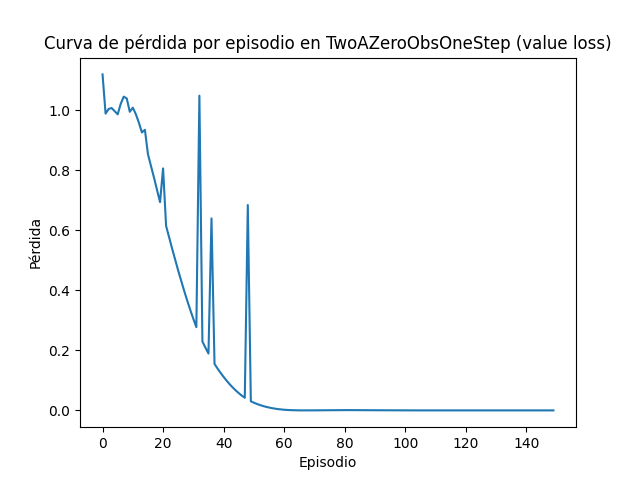
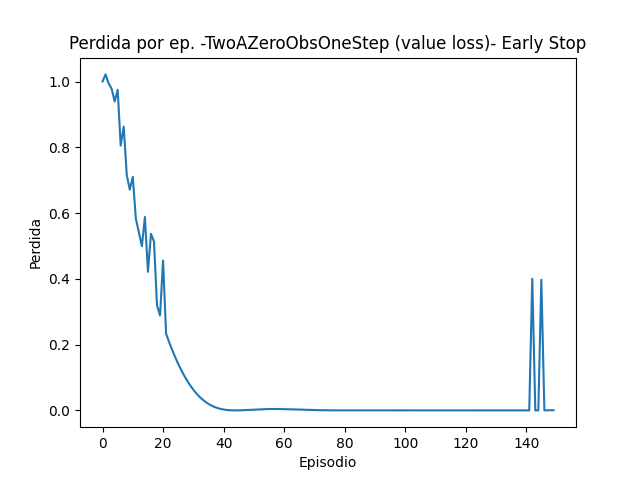
Added early stop functionality

diff --git a/code/main.py b/code/main.py
@@ -6,14 +6,21 @@ import torch.nn.functional as F
 import gymnasium as gym
 import utils
 from reinforce import build_mlp, train_policy
+from utils import CONVERGENCE
 
-def train_and_test_env(environment_name: str, episodes: int, obs: np.ndarray):
+def train_and_test_env(environment_name: str, 
+                       episodes: int, 
+                       obs: np.ndarray, 
+                       batch_size: int, 
+                       early_stop: bool = False):
     """
     Entrena una política en el entorno especificado y luego prueba la política aprendida.
     Args:
         environment_name (str): Nombre del entorno a entrenar.
-        episodes (int): Número de episodios para entrenar.
+        episodes (int): Número de episodios para entrenar.S
         obs (np.ndarray): Observación inicial para probar la política aprendida.
+        batch_size (int): Tamaño del batch (numero de trayectorias antes de actualizar la política).
+        early_stop (bool): Si True, usa criterio de convergencia para detener el entrenamiento.
     """
     # --------------------- ENTORNOS ---------------------
     envs = {
@@ -41,7 +48,12 @@ def train_and_test_env(environment_name: str, episodes: int, obs: np.ndarray):
     policy_optimizer = optim.Adam(policy_net.parameters(), lr=lr_policy)
     value_opt = optim.Adam(value_net.parameters(), lr=lr_value)
 
-    train_losses, value_losses, rewards_per_episode = train_policy(env, policy_net, value_net, policy_optimizer, value_opt, episodes=episodes, gamma=gamma, batch_size=5)
+    if early_stop:
+        early_stop_cfg = {**CONVERGENCE[environment_name]}
+    else:
+        early_stop_cfg = None
+
+    train_losses, value_losses, rewards_per_episode = train_policy(env, policy_net, value_net, policy_optimizer, value_opt, episodes=episodes, gamma=gamma, batch_size=10, use_baseline=True, normalize_advantages=True, early_stop_cfg=early_stop_cfg)
 
     print("\nEntrenamiento completado. Probando la política aprendida...\n")
 
@@ -51,7 +63,7 @@ def train_and_test_env(environment_name: str, episodes: int, obs: np.ndarray):
     probs = F.softmax(logits, dim=-1).detach().numpy().flatten()  # Softmax para convertir logits en probabilidades
 
     # --------------------- GRÁFICOS ---------------------
-    utils.plot_action_probs(probs, environment_name)
+    #utils.plot_action_probs(probs, environment_name)
     utils.plot_loss_curve(train_losses, environment_name)
     utils.plot_loss_curve(value_losses, environment_name + " (value loss)")
     utils.plot_rewards(rewards_per_episode, environment_name)
@@ -167,22 +179,22 @@ def compare_and_plot(env_name, episodes=500, batch_size=10, seeds=(0,1,2,3,4)):
 
 if __name__ == "__main__":
     # Entrenar y probar en TwoAZeroObsOneStepEnv
-    # train_and_test_env("TwoAZeroObsOneStep", episodes=150, obs=np.array([0.0]))
+    # train_and_test_env("TwoAZeroObsOneStep", episodes=150, obs=np.array([0.0]), batch_size=10, early_stop=False)
 
     # Entrenar y probar en TwoARandomObsOneStepEnv
-    # train_and_test_env("TwoARandomObsOneStepEnv", episodes=150, obs=np.array([1.0, 0.0]))
+    # train_and_test_env("TwoARandomObsOneStepEnv", episodes=150, obs=np.array([1.0, 0.0]), batch_size=10, early_stop=True)
 
     # Entrenar y probar en LineWorldEasyEnv
-    # train_and_test_env("LineWorldEasyEnv", episodes=150, obs=np.array([1.0, 0.0, 0.0, 0.0, 0.0, 0.0]))
+    # train_and_test_env("LineWorldEasyEnv", episodes=150, obs=np.array([1.0, 0.0, 0.0, 0.0, 0.0, 0.0]), batch_size=10, early_stop=True)
 
     # Entrenar y probar en LineWorldMirrorEnv
-    # train_and_test_env("LineWorldMirrorEnv", episodes=150, obs=np.array([1.0, 0.0, 0.0, 0.0]))
+    # train_and_test_env("LineWorldMirrorEnv", episodes=150, obs=np.array([1.0, 0.0, 0.0, 0.0]), batch_size=10, early_stop=True)
 
     # Entrenar y probar en CartPole-v1
-    # train_and_test_env("CartPole-v1", episodes=500, obs=np.array([0.0, 0.0, 0.0, 0.0]))
+    # train_and_test_env("CartPole-v1", episodes=500, obs=np.array([0.0, 0.0, 0.0, 0.0]), batch_size=10, early_stop=True)
 
     # Entrenar y probar en Acrobot-v1
-    train_and_test_env("Acrobot-v1", episodes=500, obs=np.array([0.0, 0.0, 0.0, 0.0, 0.0, 0.0]))
+    # train_and_test_env("Acrobot-v1", episodes=500, obs=np.array([0.0, 0.0, 0.0, 0.0, 0.0, 0.0]), batch_size=10, early_stop=True )
 
     #compare_and_plot("CartPole-v1", episodes=500, batch_size=10, seeds=(0,1,2,3,4))
     # compare_and_plot("Acrobot-v1", episodes=500, batch_size=10, seeds=[0, 1, 2])

diff --git a/code/utils.py b/code/utils.py
@@ -11,7 +11,7 @@ def plot_loss_curve(train_losses, environment_name: str):
     plt.plot(train_losses)
     plt.xlabel("Episodio")
     plt.ylabel("Perdida")
-    plt.title(f"Curva de perdida por episodio en {environment_name}")
+    plt.title(f"Perdida por ep. -{environment_name}- Early Stop")
     plt.savefig(f"plots/losses/loss_curve_{environment_name}.png")
     plt.close()
 
@@ -37,7 +37,7 @@ def plot_rewards(rewards_per_episode, environment_name: str, avg_random: float =
         plt.axhline(y=avg_random, color="red", linestyle="--", label="Agente aleatorio")
     plt.xlabel("Episodio")
     plt.ylabel("Recompensa")
-    plt.title(f"Recompensa promedio por episodio en {environment_name}")
+    plt.title(f"Recompensa promedio por episodio en {environment_name} - Early Stop")
     plt.legend()
     plt.savefig(f"plots/rewards/rewards_{environment_name}.png")
     plt.close()
@@ -49,7 +49,7 @@ def moving_average(x, w):
     Para cada punto i, reemplaza x[i] por el promedio de los w puntos 
     anteriores (incluyendo el valor de x[i])
     """
-    
+
     w = min(w, len(x))
     return np.convolve(x, np.ones(w)/w, mode="valid") if len(x) else np.array([])
 
@@ -122,7 +122,68 @@ def plot_two_curves(curve_A, curve_B, title, label_A, label_B, x_label, y_label,
     plt.savefig(out_path)
     plt.close()
 
+# ------------------ UTILS PARA CONVERGENCIA ------------------
+# Criterios de convergencia para cada uno de los entornos
+"""
+    - threshold: valor umbral de recompensa promedio 
+    - window: cantidad de episodios sobre los que promediar
+    - mode: criterio de comparacion. ejemplo: "ge" (greater or equal) 
 
+"""
+CONVERGENCE = {
+    # -------- GYM --------
+    "CartPole-v1": {
+        "env_name": "CartPole-v1", "metric": "avg_return", "threshold": 450.0, "window": 50, "mode": "ge"
+    },  
+    "Acrobot-v1":  {
+        "env_name": "Acrobot-v1", "metric": "avg_return", "threshold": -100.0, "window": 50, "mode": "ge"
+    },  
+
+    # -------- CUSTOM --------
+    # 1 paso; optimo = +1 siempre. Converge cuando el promedio se acerca a +1
+    "TwoAZeroObsOneStep": {
+        "env_name": "TwoAZeroObsOneStep", "metric": "avg_return", "threshold": 0.99, "window": 50, "mode": "ge"
+    },
+
+    # 1 paso; optimo = +1 si elige la accion correcta segun el estado
+    "TwoARandomObsOneStepEnv": {
+        "env_name": "TwoARandomObsOneStepEnv", "metric": "avg_return", "threshold": 0.99, "window": 50, "mode": "ge"
+    },
+
+    # Recompensa no descontada es siempre 1 si eventualmente llega, asi que NO sirve avg_return.
+    # Medimos eficiencia: pasos por episodio (menos pasos es mejor). Optimo = 5 pasos (llega al estado 5).
+    "LineWorldEasyEnv": {
+        "env_name": "LineWorldEasyEnv", "metric": "avg_steps",  "threshold": 5.5, "window": 50, "mode": "le"
+    },
+
+    # Recompensa = -1 por paso, retorno = -#pasos. Optimo = -3 (llega en 3 pasos)
+    # Medir pasos o return es parecido creo
+    "LineWorldMirrorEnv": {
+        "env_name": "LineWorldMirrorEnv", "metric": "avg_steps", "threshold": 3.5, "window": 50, "mode": "le"
+    },
+}
+
+
+def meets(threshold, value, mode):
+    """ Verifica si value cumple el criterio respecto al threshold segun mode"""
+    return (mode == "ge" and value >= threshold) or (mode == "le" and value <= threshold)
+
+
+def check_convergence(env_name, cfg, episode_returns, episode_steps):
+    metric = cfg.get("metric")
+    data = {
+        "avg_return":        episode_returns,
+        "avg_steps":         episode_steps,
+    }[metric]                                      # Me quedo con el que corresponde a metric
+
+    ma = moving_average(np.array(data, dtype=float), cfg["window"])
+    if len(ma) == 0: 
+        return False
+    last = ma[-1]
+    if cfg["mode"] == "ge":
+        return last >= cfg["threshold"]
+    else:
+        return last <= cfg["threshold"]
 
 # ----------------- UTILS PARA SIMULACIÓN -----------------
 import time

diff --git a/code/reinforce.py b/code/reinforce.py
@@ -4,6 +4,8 @@ from torch import nn
 from typing import List
 import torch.optim as optim
 import torch.nn.functional as F
+import utils 
+
 
 def build_mlp(
     layer_sizes: List[int],
@@ -76,7 +78,8 @@ def train_policy(
     gamma: float = 0.99,
     batch_size: int = 1,
     normalize_advantages: bool = True,
-    use_baseline: bool = True
+    use_baseline: bool = True,
+    early_stop_cfg: dict = None
 ):
     """
     Entrena la poltica usando el algoritmo REINFORCE. Puede o no usar baseline.
@@ -91,9 +94,12 @@ def train_policy(
         batch_size (int): cantidad de trayectorias por episodio, antes de actualizar la politica
         normalize_advantages (bool): si True, normaliza las ventajas a media 0 y varianza 1
         use_baseline (bool): si True, usa baseline (red de value funtion)
+        early_stop_cfg (dict): diccionaio con los parametros para early stop
     """
     policy_losses, value_losses = [], []
     avg_rewards_per_episode = [] 
+    rewards_per_trayectory = []  # para criterio de convergencia
+    episode_steps   = []         # para criterio de convergencia
 
     for episode in range(episodes):
         batch_obs, batch_acts, batch_returns = [], [], []
@@ -113,8 +119,10 @@ def train_policy(
                 s, r, terminated, truncated, _ = env.step(a.item()) # Ejecuta a_t y transiciona de estado
                 act_buf.append(a.item())
                 rew_buf.append(r)
-                total_reward += r   # Es mejor tomar las recompensas descontadas no?
+                total_reward += r 
 
+            rewards_per_trayectory.append(float(sum(rew_buf)))      # rewards de esta trayectoria
+            episode_steps.append(len(rew_buf))                      # cantidad de pasos de esta trayectoria
             discounted_returns = compute_returns(rew_buf, gamma)
             batch_obs.extend(obs_buf)
             batch_acts.extend(act_buf)
@@ -154,6 +162,13 @@ def train_policy(
         value_losses.append(value_loss.item())
         avg_rewards_per_episode.append(total_reward/batch_size)              # promedio por trayectoria
 
+        # -------- EARLY STOP por convergencia --------
+        if early_stop_cfg:
+            converged = utils.check_convergence(early_stop_cfg["env_name"], early_stop_cfg, rewards_per_trayectory, episode_steps)
+            if converged:
+                print(f"** Convergencia alcanzada en el episodio {episode+1} **")
+                break
+            
         if (episode + 1) % 5  == 0:
             print(f"Episodio {episode+1} | Recompensa total: {total_reward} | "
                   f"Policy Loss={policy_losses[-1]:.3f} | ValueF Loss={value_losses[-1]:.3f}")
